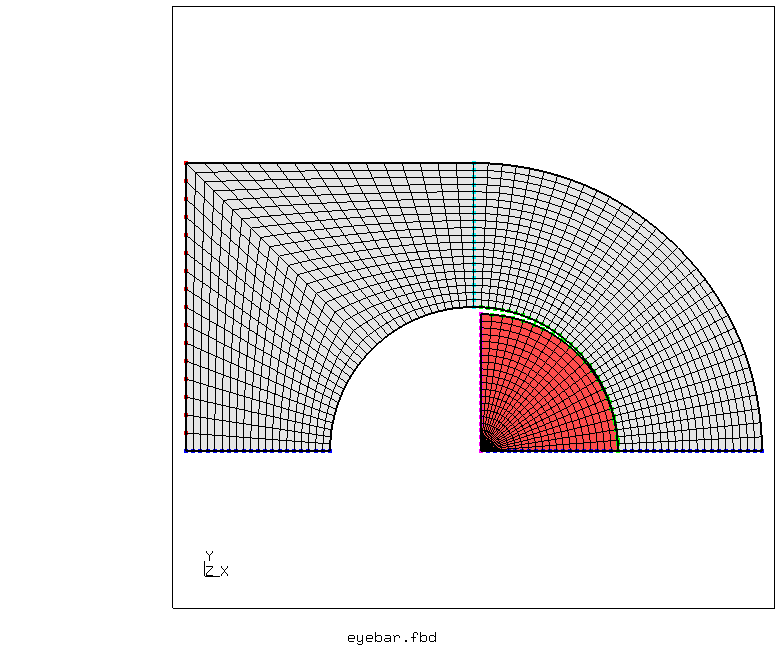
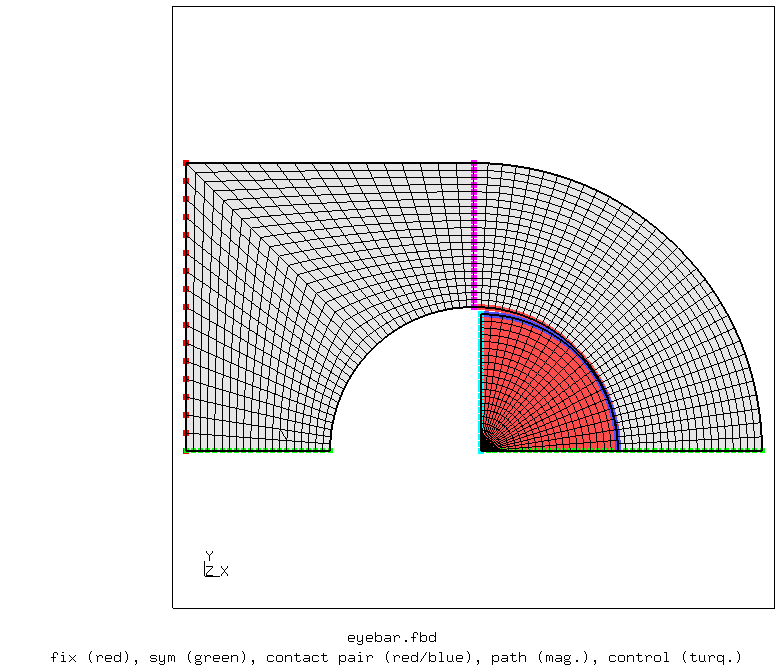
test with cgx 2.13

diff --git a/Contact/Eyebar/README.md b/Contact/Eyebar/README.md
@@ -23,6 +23,13 @@ The model was inspired by a  [model ](https://groups.yahoo.com/neo/groups/calcul
 Two separate parts are generated and meshed with plane strain elements.
 The prescribed displacement is applied to the flat equatorial surface of the pin.
 
+Parameter | Value  | Description
+:--       | :--    | :---
+`wi`      | 10     | Width of the material around the hole (eye) in mm
+`re`      | 10     | Radius of the hole in mm
+`rp`      | 9.5    | Radius of the pin in mm
+`etyp`    | "qu4e" | Element type
+
 You can change the model type using the parameter `etyp` in `par.eyebar.fbd`.
 Default is 4 node plane strain.
 ```
@@ -43,8 +50,7 @@ Default is 4 node plane strain.
 ```
 > cgx -b post.fbd
 ```
-<img src="SE.png" width="400" title="Equivalent stress">
-<img src="PE.png" width="400" title="Equivalent plastic strain">
+<img src="SE.png" width="400" title="Equivalent stress"><img src="PE.png" width="400" title="Equivalent plastic strain">
 
 The force-displacement curve is valid for the half model and is created from the .dat-file-output
 of the total reaction forces and the displacement of the monitor node.
@@ -53,5 +59,4 @@ of the total reaction forces and the displacement of the monitor node.
 
 Stress profiles in cross sections at the support (left) and at the eye (right, light blue in the mesh plot). The diagrams show the profiles at the first increment (still elastic) and at the end of the load step.
 
-<img src="SXX-fix.png" width="400" title="Stress profile at the support">
-<img src="SXX-path.png" width="400" title="Stress profile at x=0">
+<img src="SXX-fix.png" width="400" title="Stress profile at the support"><img src="SXX-path.png" width="400" title="Stress profile at x=0">
